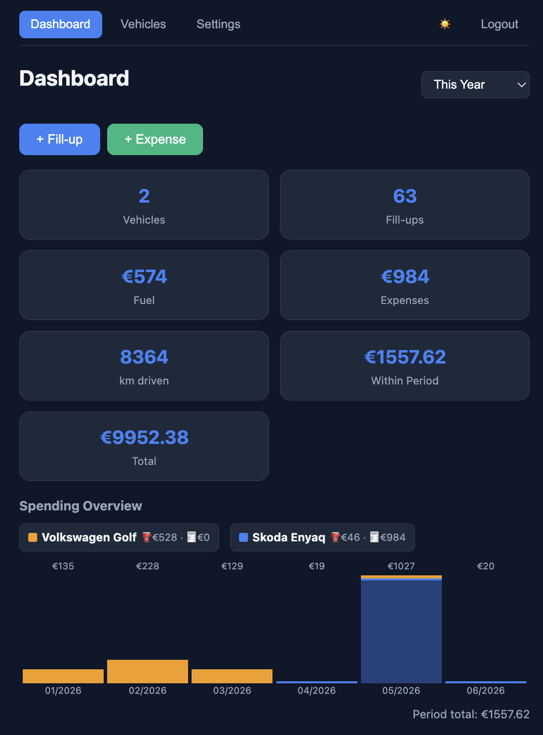
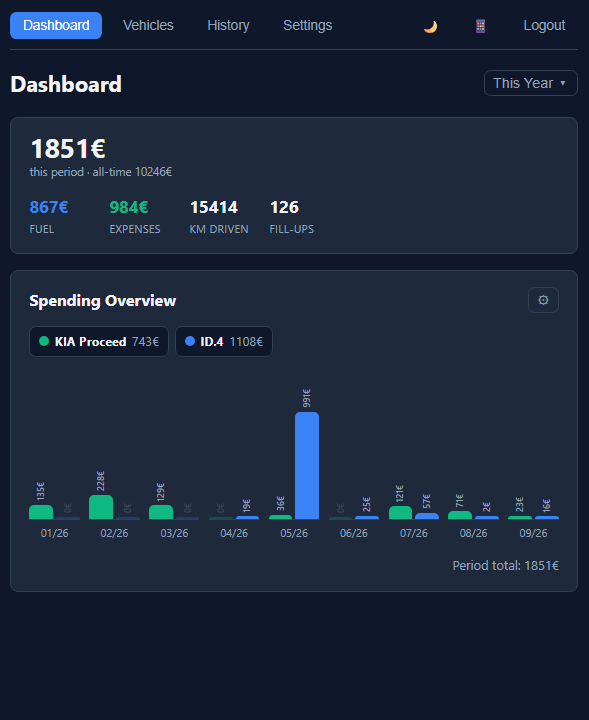
docs: refresh screenshots (dashboard, vehicle detail, history, settings)

diff --git a/README.md b/README.md
@@ -17,8 +17,8 @@ It's a single self-hosted container (Go + embedded frontend + SQLite) — nothin
 <p align="center">
   <img src="screenshots/dashboard.png" width="300" alt="Dashboard">
   <img src="screenshots/vehicle-detail.png" width="300" alt="Vehicle Detail">
-  <img src="screenshots/fillup-form.png" width="300" alt="Fill-up Form">
-  <img src="screenshots/vehicles.png" width="300" alt="Vehicles">
+  <img src="screenshots/history.png" width="300" alt="History">
+  <img src="screenshots/settings.png" width="300" alt="Settings">
 </p>
 
 ## Features
